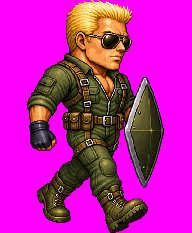
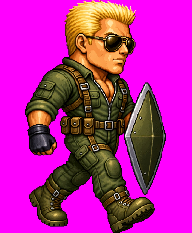
Add Maru’s full art set and recut Kite walk/hit as idle pivots.

diff --git a/app/src/main/java/com/cc/railshot/ui/FighterArt.kt b/app/src/main/java/com/cc/railshot/ui/FighterArt.kt
@@ -95,7 +95,21 @@ fun Fighter.art(): FighterArt =
         ending = "kite/kite_ending.png",
       )
     Fighter.MARU ->
-      FighterArt(nameSelect = "maru/maru_name_select.png", nameVs = "maru/maru_name_vs.png")
+      FighterArt(
+        selectFullBody = "maru/maru_select_fullbody.png",
+        face = "maru/maru_face.png",
+        vsLeft = "maru/maru_vs_left.png",
+        vsRight = "maru/maru_vs_right.png",
+        nameSelect = "maru/maru_name_select.png",
+        nameVs = "maru/maru_name_vs.png",
+        idleLeft = "maru/maru_game_idle_left.png",
+        walkLeft = "maru/maru_game_walk_left.png",
+        hitLeft = "maru/maru_game_hit_left.png",
+        idleRight = "maru/maru_game_idle_right.png",
+        walkRight = "maru/maru_game_walk_right.png",
+        hitRight = "maru/maru_game_hit_right.png",
+        ending = "maru/maru_ending.png",
+      )
     Fighter.QUILL ->
       FighterArt(nameSelect = "quill/quill_name_select.png", nameVs = "quill/quill_name_vs.png")
     Fighter.HEX ->

diff --git a/playbook.md b/playbook.md
@@ -82,13 +82,18 @@ The generator will ignore size, exact magenta, and “mirror.” Do not trust it
 5. **Stop for approval** on **A**, then **idle_left**, then **vs_left**. Do not generate walk/hit or vs_right until those are approved.
 6. **Wire** new files in `Fighter.art()` asset paths. Placeholders stay until the file exists.
 
-**`idle_left` generate input:** that fighter’s packed A (`art/{name}/{name}_select_fullbody.png`) for clothes, face, hair, and shield.
+**`idle_left` generate inputs (two images, named in the prompt):**
 
-**Court idle anatomy lock.** Super-deformed paddle sprites. Head is about a third of the sprite. Torso is short and thick. Legs are stubby. Boots are oversized. Same bulky chibi silhouette. Clothes from A can match and the sprite still fails if the body is not this.
+1. **Proportion + cartoon face.** Men: `art/ash/ash_game_idle_left.png`. Women: `art/rivet/rivet_game_idle_left.png`. Copy body math and face language only — big **anime fighter eyes with a colored iris** (like Ash/Rivet idle, not googly white discs), head about a third of the sprite, short thick muscular torso, stubby legs, oversized boots. Do not copy that fighter’s hair, clothes, or weapon. If adding packed A as a second image makes the **file on disk** a scaled-down A, drop A from the generate and describe clothes in text.
+2. **Clothes / hair / beard / shield only:** that fighter’s packed A (`art/{name}/{name}_select_fullbody.png`). Do not copy A’s adult anatomy or A’s portrait face (small eyes, realistic scowl).
 
-**Wrong (do not ship):** a scaled-down A. Small head on a tall body, long torso, long fighter legs. If the generate looks like A shrunk into 192×233, discard it and generate again.
+**Court idle anatomy lock.** Super-deformed paddle sprite. Head is about a third of the sprite. Torso is short and thick **muscle** (a waist, not a round gut). Legs are stubby. Boots are oversized. Same bulky chibi silhouette as the Ash/Rivet idle. Big cartoon eyes. Clothes from A can match and the sprite still fails if the body or face is not this.
 
-A faces **left**. `idle_left` must face **right** (nose right, shield on the right side of the PNG). If it faces left, **horizontal-flip the bitmap**. Do not GenerateImage a second pose. **No drop shadow.** Pack **192×233**, `#FF00FF`.
+**Prompt words.** Use: bulky chibi, thick muscle, short torso, stubby legs, big head, big cartoon eyes. **Do not use:** chubby, fat, obese, beer belly, gut, round stomach.
+
+**Wrong (discard, do not pack):** scaled-down A; small head; long fighter legs; obese belly; tiny realistic eyes. Unique filename per attempt. **Read the PNG on disk** before packing (the generate preview can lie).
+
+A faces **left**. `idle_left` must face **right** (nose right, shield on the right side of the PNG). If it faces left, **horizontal-flip the bitmap**. Do not GenerateImage a second pose. **No drop shadow.** Pack **192×233**, `#FF00FF`. Walk and hit only after idle is approved, from that idle (pose only).
 
 ## Roster
 
@@ -114,7 +119,7 @@ Tall, thick muscle, broad shoulders, fighter stance. Military or combat-athlete 
 | --- | --- | --- | --- |
 | 2 | **Ash** | Short black, undercut | Huge street-fighter build, scarred, red combat jacket open on a muscled chest, dog tags, round buckler, cargo pants, boots. |
 | 3 | **Kite** | **Blond**, short, high-and-tight | Very tall military striker, V-torso, aviator sunglasses, olive flight suit unzipped at the collar, harness, kite-shaped riot shield, jump boots. Top Gun pilot energy, not Ash. |
-| 4 | **Maru** | Shaved sides, dark crew cut | Tall heavyweight bruiser, biggest of the three, khaki tank top, ammo belt, disc riot shield, dog tags, wrapped fists. |
+| 4 | **Maru** | **Red**, viking braids | Tall heavyweight bruiser, biggest of the three, Scottish highland kit: tartan kilt, sporran, khaki sleeveless shirt, disc riot shield, wrapped fists, highland boots. |
 
 Always include in male prompts: `adult man, tall, extremely muscular, military fighter, Street Fighter 2 body type, broad shoulders, thick arms, not skinny`.
 
@@ -135,7 +140,7 @@ Every fighter needs pieces **A–F**. A–E share the same face and costume. The
 
 ### Consistency rules (all characters)
 
-1. **Face lock.** Piece **B** (and C, D, E) must match piece **A**: same face, same hair, same visor/hat if A has one. Crop the head from A; do not invent a new face. Men keep the male cut from A — do not add long hair.
+1. **Face lock.** Piece **B** (and C, D, E) must match piece **A**: same face, same hair, same visor/hat if A has one. Crop the head from A; do not invent a new face. Hair matches A (Maru: red viking braids). Do not swap a man’s hair for a woman’s cut from another fighter.
 2. **VS left is P1.** `{name}_vs_left.png` uses the **same clothing as full-body (A)** and the left court sprites. **Build vs_right only after vs_left exists** — bitmap flip + 2P clothes. Do not generate vs_right.
 3. **In-game sprites are animation frames, not portraits.** Idle / walk / hit are bulky, cartoony 1994 court sprites (Battle Flip Shot: big head, thick body, short legs, shield = paddle). They replace the paddle and are **swapped on top of the same world position** to animate move and hit. **Costume must match piece A** (see overlay rules). Not a pinup.
 4. **Hit has no ball.** The ball is a separate sprite composited in playback. Hit is only the character pose (shield swing / strike). No ball, no projectile, no extra orb.
@@ -150,7 +155,7 @@ Hair and skin never change. Only clothes, visor, metal trim, and shield tint.
 | Rivet | Teal jacket, teal boots, gold buckles, teal visor | Magenta-violet jacket and boots, silver buckles, purple visor |
 | Ash | Red open jacket, gold trim, brown boots, steel buckler | Blue open jacket, silver trim, dark boots, steel buckler |
 | Kite | Olive flight suit, tan harness, jump boots, gold aviators | Desert-tan flight suit, olive harness, same boots, silver aviators |
-| Maru | Khaki tank, ammo belt, wrapped fists | Steel-blue tank, dark belt, wrapped fists |
+| Maru | Green/khaki tartan kilt, khaki shirt, leather sporran, wrapped fists | Steel-blue tartan kilt, steel-blue shirt, dark sporran, wrapped fists |
 | Quill | Earth/feather costume, warm browns and reds (hair stays red) | Cool purple/blue feather costume (hair stays red) |
 | Hex | Dark violet robe, moon-hat silver | Teal-black robe, moon-hat gold |
 
@@ -173,7 +178,7 @@ Kite, adult man, high-and-tight blond hair, aviator sunglasses, very tall, thick
 
 **Maru**
 ```
-Maru, adult man, dark crew cut, tallest heavyweight, massive chest and arms, khaki tank top, ammo belt, dog tags, wrapped fists, disc riot shield, military bruiser, original Railshot character
+Maru, adult man, bright red viking hair with braids, tallest heavyweight, massive chest and arms, Scottish highland fighter, tartan kilt, sporran, khaki sleeveless shirt, wrapped fists, disc riot shield, highland boots, original Railshot character
 ```
 
 **Quill**
@@ -232,7 +237,7 @@ These replace the paddle. The game **does not pan inside the PNG**. It draws whi
 
 #### Overlay animation rules
 
-1. **`idle_left` = A clothes on court-chibi body.** One image ref: **A**. Anatomy lock: super-deformed paddle sprite, head about a third of the sprite, short thick torso, stubby legs, oversized boots. Same bulky chibi silhouette. Copy A’s face, hair, outfit, and paddle-shaped shield. **Reject** a miniature of A. Face **right**. **No drop shadow.** Pack **192×233**. Walk and hit are **that idle with a new pose**.
+1. **`idle_left` = Ash/Rivet court body + A clothes.** Two image refs, named in the prompt: **(1)** Ash idle (men) or Rivet idle (women) for proportion and cartoon face (big eyes); **(2)** packed **A** for hair, outfit, beard, and paddle-shaped shield only. Anatomy lock: super-deformed paddle sprite, head about a third of the sprite, short thick muscular torso, stubby legs, oversized boots. **Reject** a miniature of A, an obese belly, or A’s portrait eyes. Face **right**. **No drop shadow.** Pack **192×233**. Walk and hit are **that idle with a new pose**.
 2. **Idle first, then pivots.** Generate and approve **idle_left** against A. Only then generate **`walk_left`** and **`hit_left`** using that idle as the reference (`same character, identical clothes, only the pose changes`). Three left-court files: `{name}_game_idle_left.png`, `{name}_game_walk_left.png`, `{name}_game_hit_left.png`. These pair with `{name}_vs_left.png` and play on the **left side of the court**.
 3. **No shadows.** No drop shadow, ground blob, contact shadow, or floor ellipse. Magenta `#FF00FF` goes right up to the boots.
 4. **Same character height as idle.** After cropping magenta, scale every frame **uniformly** so its bounding-box **height equals idle’s height**. Walk and hit often come out larger — shrink them to idle. Width scales with height (no squash).
@@ -243,10 +248,10 @@ These replace the paddle. The game **does not pan inside the PNG**. It draws whi
 9. **Shield is the paddle.** Same shield as idle, swung on hit. **P1 / vs_left / left court** uses `*_left` frames (facing right, toward the opponent).
 10. **Right-court frames from left + vs_right.** Once **all three left sprites** and **`vs_right`** exist, build `{name}_game_idle_right.png`, `{name}_game_walk_right.png`, `{name}_game_hit_right.png` **in bitmap code**. Do **not** generate them. Pipeline: each packed `*_left` → **horizontal flip** → **recolor clothes to vs_right** (hair and skin unchanged). Same **192×233** box. Right side of the court.
 
-Idle prompt (image ref: **A** only):
+Idle prompt (two image refs: **Ash idle or Rivet idle**, then **A**):
 
 ```
-Court paddle sprite: super-deformed bulky chibi, head about a third of the sprite, short thick torso, stubby legs, oversized boots, same bulky chibi silhouette. FACING RIGHT (nose right, shield on the right side of the image). Clothes and identity from the full-body only: [CHARACTER LOCK], EXACT same clothing and shield as that full-body. NOT a scaled-down full-body, NOT adult fighter legs, NOT a small head. IDLE. NO drop shadow. Solid magenta #FF00FF. Pixel art. Pack 192x233.
+TWO REFERENCES. (1) Court idle: COPY ONLY body math and cartoon face — bulky chibi, head about a third of the sprite, big cartoon eyes, short thick muscular torso, stubby legs, oversized boots. Do NOT copy that idle’s hair, clothes, or weapon. (2) Full-body A: COPY ONLY clothes, hair, beard, shield. Do NOT copy A’s adult anatomy or A’s small realistic eyes. FACING RIGHT (nose right, shield on the right side of the image). [CHARACTER LOCK], EXACT same clothing and shield as the full-body. NOT a scaled-down full-body, NOT adult fighter legs, NOT a small head, NOT obese, NOT a round gut. IDLE. NO drop shadow. Solid magenta #FF00FF. Pixel art. Pack 192x233.
 ```
 
 Walk / hit prompt (reference **idle**, not a new design):
@@ -271,7 +276,7 @@ Do not skip ahead: later files are derived from earlier ones.
 2. **B face** from A. Pack **192×192**, no drawn border, flush left/right/bottom, chroma `#FF00FF`. **Approve A** before B.
 3. **Name sprites** `{name}_name_select.png` and `{name}_name_vs.png`. Pack 480×90. No portrait input.
 4. **`vs_left`.** P1 clothes matching A. Pack 480×600. **Approve vs_left** before vs_right.
-5. **Left court:** `idle_left` from **A**, with the **court idle anatomy lock** (super-deformed paddle sprite; not scaled A). Face **right**, no shadow, pack **192×233**. Then `walk_left` and `hit_left` from idle_left. Required before right court.
+5. **Left court:** `idle_left` from **Ash idle (men) or Rivet idle (women)** for body/face, plus **A** for clothes. Court idle anatomy lock. Face **right**, no shadow, pack **192×233**. Then `walk_left` and `hit_left` from idle_left. Required before right court.
 6. **`vs_right` AFTER vs_left.** Bitmap flip + 2P recolor. Do not generate.
 7. **Right court AFTER left sprites AND vs_right.** Bitmap flip + 2P recolor of each packed left frame. **192×233**.
 8. **E ending** from that face.
